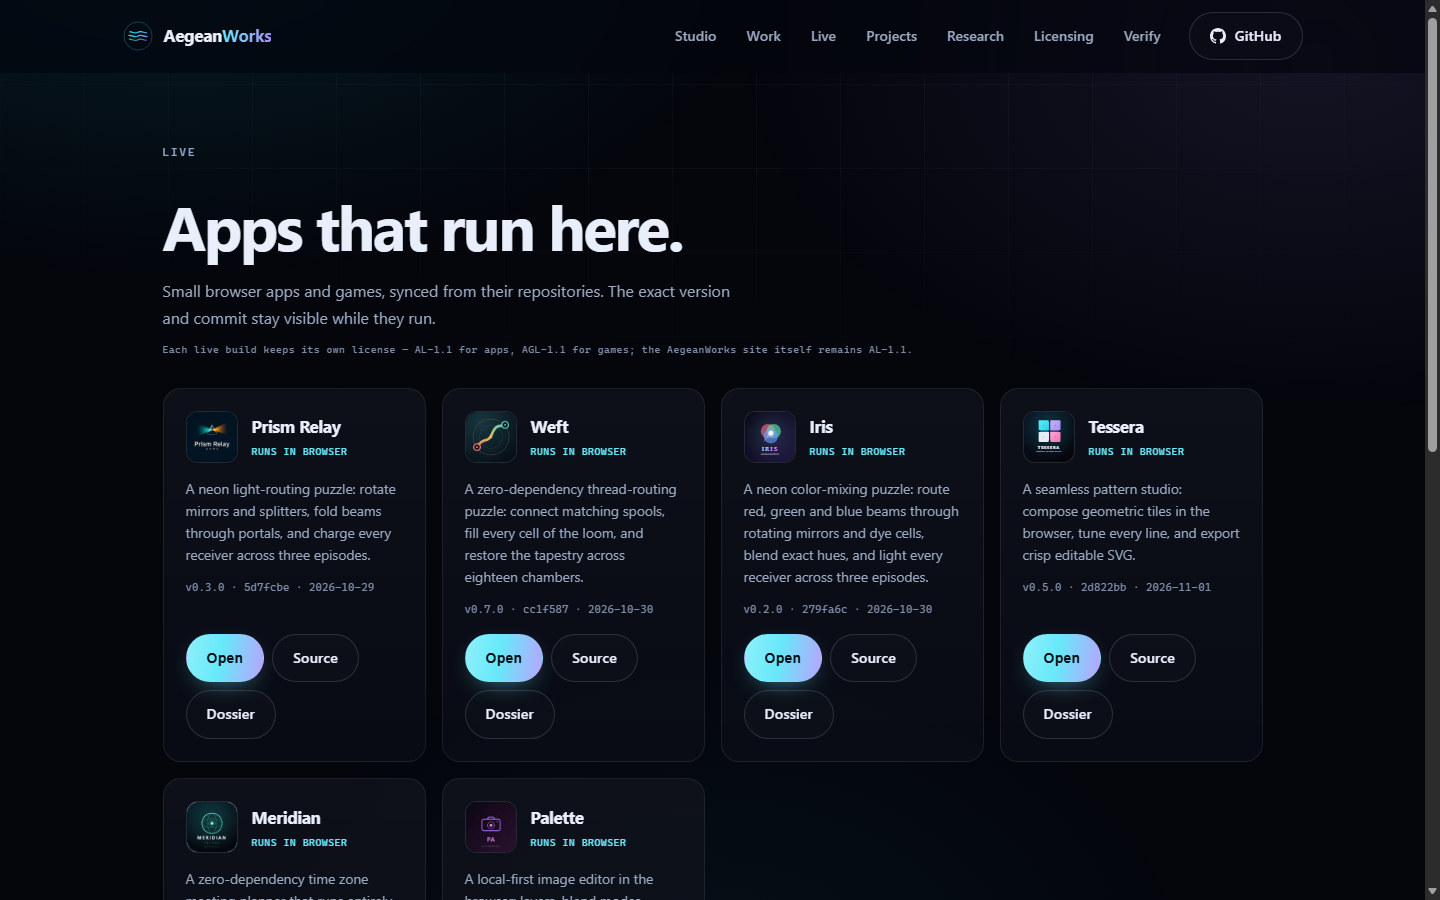
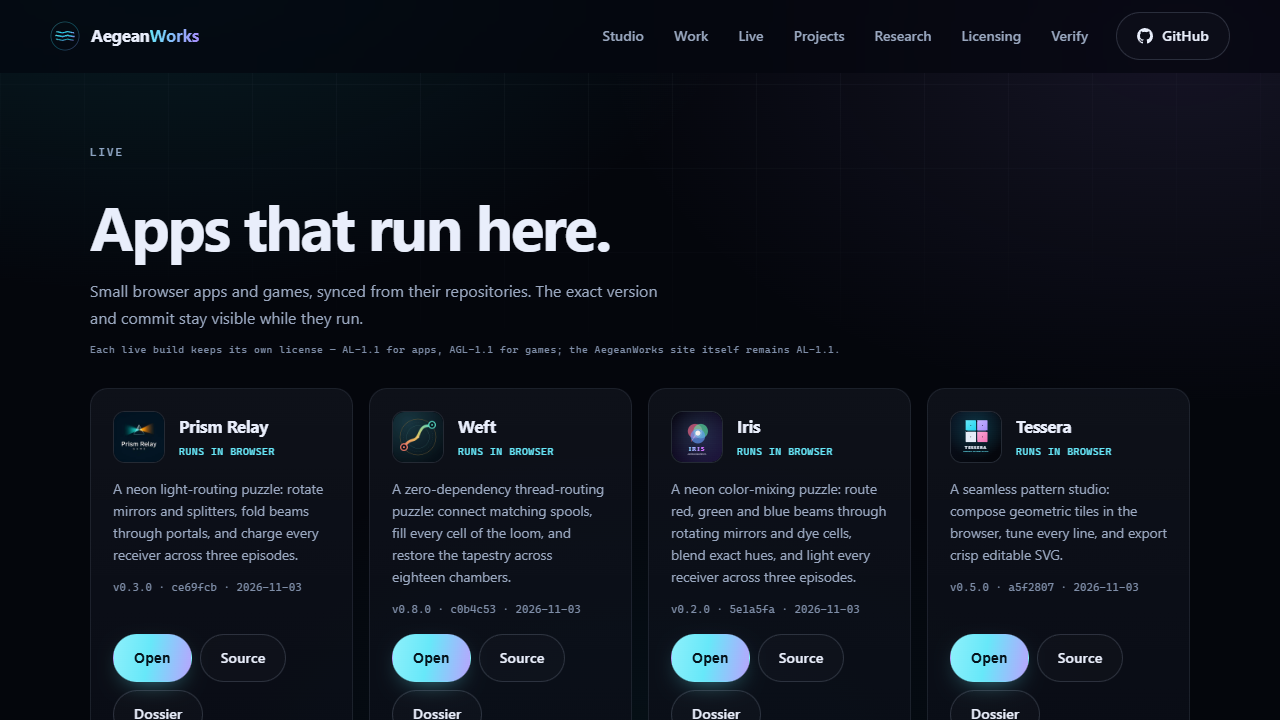
docs: refresh README keepers at post-fix tree ea26791
Re-capture 1440x900 home and live catalog from plain http.server,
restamp aegean:screenshots block and media.json. ADR-064.

diff --git a/.aikit/decisions.md b/.aikit/decisions.md
@@ -485,3 +485,11 @@ contract, a dependency, a data format or the architecture; IDs are consecutive a
 - **Decision**: Fix at the photographed layer only: markup for counts/caps/nav/noscript/CSS coherence; render-side suppression of `twitter.com`/`x.com` homepages in `project.js` (snapshot untouched); lightbox clears `aria-describedby` when meta is hidden; `script-failed` editor falls back to static flow so a wrapped header cannot underlap the fixed editor; optimize `assets/social-preview.png` losslessly and keep `docs/og.png` 1200x630 as master. Regenerate `docs/live.json` through `sync_live_apps.py --write` (picks up Prism-Relay `ce69fcb`, prunes `e711443`, keeps KEEP_BUILDS=3). Defer the Weft 24-vs-18 copy change: `test_readme_atlas_matches_github_metadata` pins README to the GitHub description (18), so changing README/live.json to 24 fails the gate; the upstream Weft repo description must change first, then snapshot refresh, per ADR-060.
 - **Consequences**: All gates stay green (95 Python, 58+67+88+20 Node, three tool checks). Home/play/project/editor verify clean by screenshot with games running in-page; NeuralBeat homepage hidden while Meridian homepage still shows. README and site tell one story except the documented Weft upstream divergence.
 - Cross-principle check: no principle section changed. Serves PRINCIPLE-003 (read-before-write, photographed cause), PRINCIPLE-014 (gates regenerated through tools, no hand-built media) and PRINCIPLE-018 (explicit staging, no force-push).
+
+### ADR-064: Refresh README keepers at the post-fix tree
+- **Date**: 2026-11-03
+- **Status**: Accepted
+- **Context**: Stage 4 check found the README `aegean:screenshots` block and `.aikit/media.json` still stamped `456af0e` while HEAD had moved through the hero restore (`a3fb30f`), the UI-coherence fix (`38e343b`/`ea26791` after rebase) and the remote media refreshes. The keeper PNGs therefore depicted a pre-fix shell.
+- **Decision**: Re-capture `2026-11-03-home.png` (`index.html`) and `2026-11-03-live.png` (`play.html` catalog) at 1440x900 from plain `http.server` on `docs/` at tree `ea26791`, overwrite the same dated paths, and restamp the README block plus both `media.json` entries to `ea26791`/`ea267919d52722e78af0a87b25d3268e72d52836`. Keep filenames, alt text and the live caption's Weft/Tessera staleness note unchanged.
+- **Consequences**: README proves the fixed home hero and the current live catalog (Prism-Relay `ce69fcb` visible) at the tree visitors actually check out. Keeper capture stays a manual browser step per ADR-060; dossier media still regenerates only through `tools/`.
+- Cross-principle check: no principle section changed. Serves PRINCIPLE-003 (screenshot evidence), PRINCIPLE-014 (gates re-run before commit) and PRINCIPLE-016 (code, keepers and record in one change).

diff --git a/README.md b/README.md
@@ -321,9 +321,9 @@ AegeanWorks/
 <!-- aegean:screenshots:start -->
 ## Screenshots
 
-<a href="https://github.com/AegeanWorks/AegeanWorks/commit/456af0e"><img src="assets/screenshots/2026-11-03-home.png" alt="AegeanWorks home at 2026-11-03"></a>
+<a href="https://github.com/AegeanWorks/AegeanWorks/commit/ea26791"><img src="assets/screenshots/2026-11-03-home.png" alt="AegeanWorks home at 2026-11-03"></a>
 
-<a href="https://github.com/AegeanWorks/AegeanWorks/commit/456af0e"><img src="assets/screenshots/2026-11-03-live.png" alt="AegeanWorks live catalog at 2026-11-03"></a>
+<a href="https://github.com/AegeanWorks/AegeanWorks/commit/ea26791"><img src="assets/screenshots/2026-11-03-live.png" alt="AegeanWorks live catalog at 2026-11-03"></a>
 
-*commit `456af0e` · 2026-11-03 · viewport 1440x900 · home plus live catalog*
+*commit `ea26791` · 2026-11-03 · viewport 1440x900 · home plus live catalog*
 <!-- aegean:screenshots:end -->
